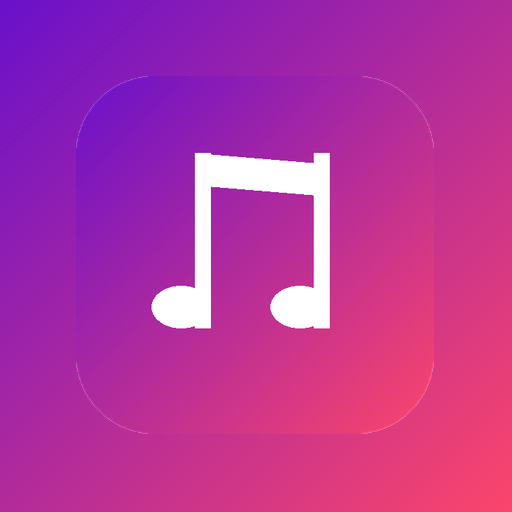
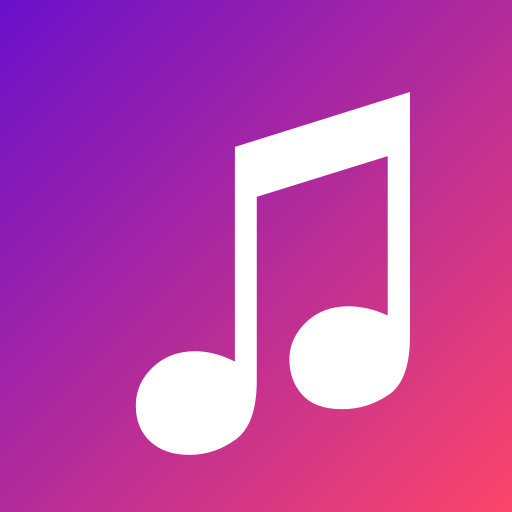
优化：图标改用字体渲染双音符（居中对称）+ QQ源过滤VIP付费歌曲 + SW改network-first
- 图标：STHeiti Medium 渲染 ♫ 双音符，anchor mm 精确居中，保留紫粉渐变
- QQ 搜索过滤 pay=付费/VIP 的歌曲（无法播放）
- Service Worker v2：network-first 策略，更新即时生效，离线回退缓存

Changed region(s): [[0.25, 0.1562, 0.8125, 0.9062], [0.8125, 0.75, 0.8438, 0.7812], [0.75, 0.8125, 0.7812, 0.8438]]

diff --git a/sw.js b/sw.js
@@ -1,5 +1,5 @@
 /* Service Worker：缓存 APP 骨架，支持离线打开 */
-const CACHE_NAME = 'mystation-v1';
+const CACHE_NAME = 'mystation-v2';
 const APP_SHELL = [
   './',
   './index.html',
@@ -35,23 +35,13 @@ self.addEventListener('fetch', e => {
   if (url.origin !== self.location.origin) return;
 
   e.respondWith(
-    caches.match(req).then(cached => {
-      if (cached) {
-        // 后台静默更新缓存
-        fetch(req).then(res => {
-          if (res && res.ok) {
-            caches.open(CACHE_NAME).then(cache => cache.put(req, res.clone()));
-          }
-        }).catch(() => {});
-        return cached;
+    // network-first：更新即时生效；离线/失败时回退缓存
+    fetch(req).then(res => {
+      if (res && res.ok) {
+        const clone = res.clone();
+        caches.open(CACHE_NAME).then(cache => cache.put(req, clone));
       }
-      return fetch(req).then(res => {
-        if (res && res.ok) {
-          const clone = res.clone();
-          caches.open(CACHE_NAME).then(cache => cache.put(req, clone));
-        }
-        return res;
-      }).catch(() => caches.match('./index.html'));
-    })
+      return res;
+    }).catch(() => caches.match(req).then(cached => cached || caches.match('./index.html')))
   );
 });

diff --git a/js/app.js b/js/app.js
@@ -142,7 +142,8 @@ async function searchNetease(kw) {
 async function searchQQ(kw) {
   const json = await fetchJson(API.qqSearch(kw));
   const data = Array.isArray(json) ? json : (Array.isArray(json && json.data) ? json.data : []);
-  return data.filter(it => it.song_mid).map((it, idx) => ({
+  // 过滤 VIP/付费歌曲（无法播放）
+  return data.filter(it => it.song_mid && it.pay !== '付费' && it.pay !== 'VIP').map((it, idx) => ({
     uid: `qq-${it.song_mid}`, source: 'qq', songid: it.song_mid, songMid: it.song_mid,
     title: it.song_title || '', artist: it.singer_name || '', album: '', keyword: kw,
     cover: null, audioUrl: null, lrc: null, detailsLoaded: false,

diff --git a/gen_icons.py b/gen_icons.py
@@ -1,96 +1,58 @@
 #!/usr/bin/env python3
-"""生成 PWA/APP 图标：渐变背景 + 白色音符"""
-from PIL import Image, ImageDraw
+"""生成 PWA/APP 图标：紫粉渐变背景 + 系统字体渲染的白色音符 ♪（居中对称）"""
+from PIL import Image, ImageDraw, ImageFont
 import os
 
 BASE = os.path.dirname(os.path.abspath(__file__))
+FONT_PATH = '/System/Library/Fonts/STHeiti Medium.ttc'
+NOTE = '\u266B'  # ♫ 双八分音符（左右更对称）
 
-def make_icon(size):
-    """渐变背景（深紫 -> 品红）+ 白色八分音符对"""
-    img = Image.new('RGB', (size, size), '#1a1030')
-    draw = ImageDraw.Draw(img)
-
-    # 对角渐变背景
+def gradient_bg(size):
+    """对角渐变背景（紫 -> 粉），逐行插值"""
     c1 = (106, 17, 203)    # 紫 #6a11cb
     c2 = (252, 70, 107)    # 粉 #fc466b
-    for y in range(size):
-        for_x_step = max(size - 1, 1)
-        for x in range(0, size, 8):  # 步长8加速，后面再平滑
-            pass
-    # 逐行画渐变（水平插值近似对角）
+    img = Image.new('RGB', (size, size))
     px = img.load()
+    denom = 2 * size - 2
     for y in range(size):
         for x in range(0, size, 4):
-            t = (x + y) / (2 * size - 2)
+            t = (x + y) / denom
             r = int(c1[0] + (c2[0] - c1[0]) * t)
             g = int(c1[1] + (c2[1] - c1[1]) * t)
             b = int(c1[2] + (c2[2] - c1[2]) * t)
             for dx in range(4):
                 if x + dx < size:
                     px[x + dx, y] = (r, g, b)
+    return img
 
+def make_icon(size, note_scale=0.62):
+    """渐变背景 + 居中白色音符 + 圆角"""
+    img = gradient_bg(size).convert('RGBA')
     draw = ImageDraw.Draw(img)
-    s = size
-    # 白色双音符（♫）：两个音符头 + 两根符干 + 顶部横梁
-    white = (255, 255, 255, 255)
 
-    # 几何参数（按 512 基准缩放）
-    k = s / 512.0
-    # 音符头1（左）
-    ex1, ey = 150 * k, 330 * k
-    # 音符头2（右）
-    ex2 = 320 * k
-    ew, eh = 84 * k, 60 * k   # 椭圆宽高
-    # 符干
-    stem_w = 22 * k
-    stem_top = 110 * k
-    stem_bottom = ey + eh / 2
-    # 横梁
-    beam_h = 46 * k
+    # 字体渲染音符，anchor='mm' 精确居中
+    font_size = int(size * 1.05)
+    font = ImageFont.truetype(FONT_PATH, font_size)
+    draw.text((size / 2, size / 2 + size * 0.02), NOTE,
+              font=font, fill=(255, 255, 255, 255), anchor='mm')
 
-    # 画音符头（椭圆）
-    draw.ellipse([ex1 - ew/2, ey - eh/2, ex1 + ew/2, ey + eh/2], fill=white)
-    draw.ellipse([ex2 - ew/2, ey - eh/2, ex2 + ew/2, ey + eh/2], fill=white)
-    # 符干（右侧贴着椭圆）
-    draw.rectangle([ex1 + ew/2 - stem_w, stem_top, ex1 + ew/2, stem_bottom], fill=white)
-    draw.rectangle([ex2 + ew/2 - stem_w, stem_top, ex2 + ew/2, stem_bottom], fill=white)
-    # 顶部横梁（连接两根符干，略微倾斜）
-    beam = [(ex1 + ew/2 - stem_w, stem_top),
-            (ex2 + ew/2, stem_top + 16 * k),
-            (ex2 + ew/2, stem_top + 16 * k + beam_h),
-            (ex1 + ew/2 - stem_w, stem_top + beam_h)]
-    draw.polygon(beam, fill=white)
-
-    # 圆角蒙版（PWA 图标常见圆角）
-    mask = Image.new('L', (s, s), 0)
+    # 圆角蒙版
+    mask = Image.new('L', (size, size), 0)
     mdraw = ImageDraw.Draw(mask)
-    radius = int(s * 0.22)
-    mdraw.rounded_rectangle([0, 0, s - 1, s - 1], radius=radius, fill=255)
-    final = Image.new('RGBA', (s, s), (0, 0, 0, 0))
+    radius = int(size * 0.22)
+    mdraw.rounded_rectangle([0, 0, size - 1, size - 1], radius=radius, fill=255)
+    final = Image.new('RGBA', (size, size), (0, 0, 0, 0))
     final.paste(img, (0, 0), mask)
     return final
 
-# maskable 图标（音符略小，留 safe area 边距）
 def make_maskable(size):
-    img = make_icon(size)
-    bg = Image.new('RGBA', (size, size), (26, 16, 48, 255))  # 与背景色一致
-    d = ImageDraw.Draw(bg)
-    # maskable 全填充渐变
-    c1 = (106, 17, 203); c2 = (252, 70, 107)
-    px = bg.load()
-    for y in range(size):
-        for x in range(0, size, 4):
-            t = (x + y) / (2 * size - 2)
-            r = int(c1[0] + (c2[0] - c1[0]) * t)
-            g = int(c1[1] + (c2[1] - c1[1]) * t)
-            b = int(c1[2] + (c2[2] - c1[2]) * t)
-            for dx in range(4):
-                if x + dx < size:
-                    px[x + dx, y] = (r, g, b, 255)
-    # 把音符部分缩小到 70% 居中贴上
-    inner = img.resize((int(size * 0.7), int(size * 0.7)), Image.LANCZOS)
-    # inner 已带透明边，直接贴
-    bg.paste(inner, (int(size * 0.15), int(size * 0.15)), inner)
+    """maskable 图标：全幅渐变背景 + 音符缩小到 ~70% 居中（留 safe area）"""
+    bg = gradient_bg(size).convert('RGBA')
+    draw = ImageDraw.Draw(bg)
+    font_size = int(size * 0.75)
+    font = ImageFont.truetype(FONT_PATH, font_size)
+    draw.text((size / 2, size / 2 + size * 0.015), NOTE,
+              font=font, fill=(255, 255, 255, 255), anchor='mm')
     return bg
 
 sizes = {
@@ -102,12 +64,10 @@ sizes = {
 }
 for path, (sz, maskable) in sizes.items():
     icon = make_maskable(sz) if maskable else make_icon(sz)
-    full = os.path.join(BASE, path)
-    icon.save(full)
+    icon.save(os.path.join(BASE, path))
     print('saved', path)
 
-# favicon（32x32）
-favicon = make_icon(32).convert('RGBA')
+favicon = make_icon(32)
 favicon.save(os.path.join(BASE, 'icons/favicon-32.png'))
 print('saved icons/favicon-32.png')
 print('done')
